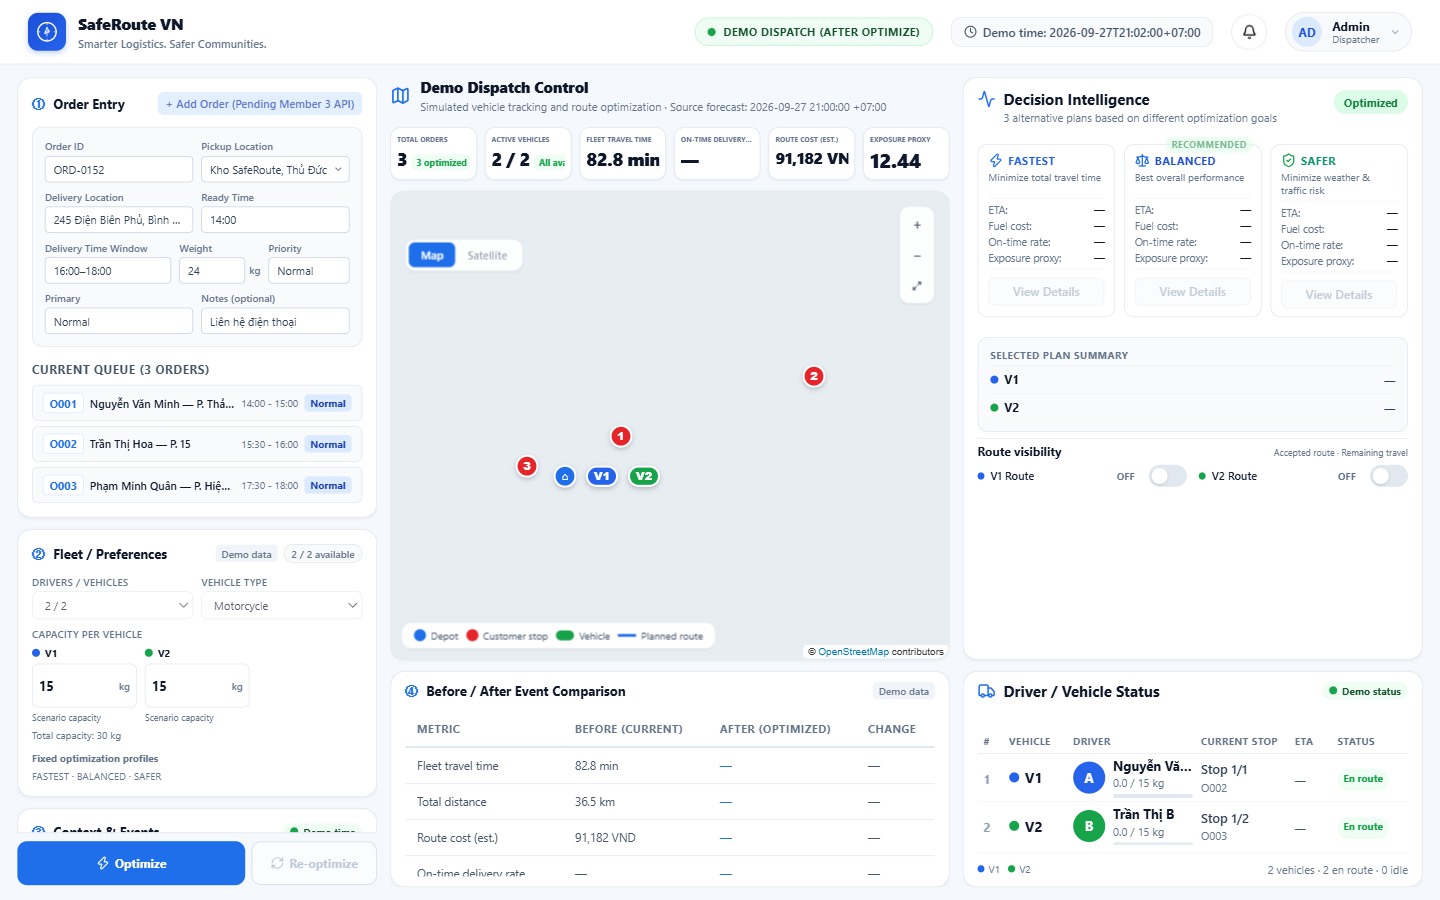
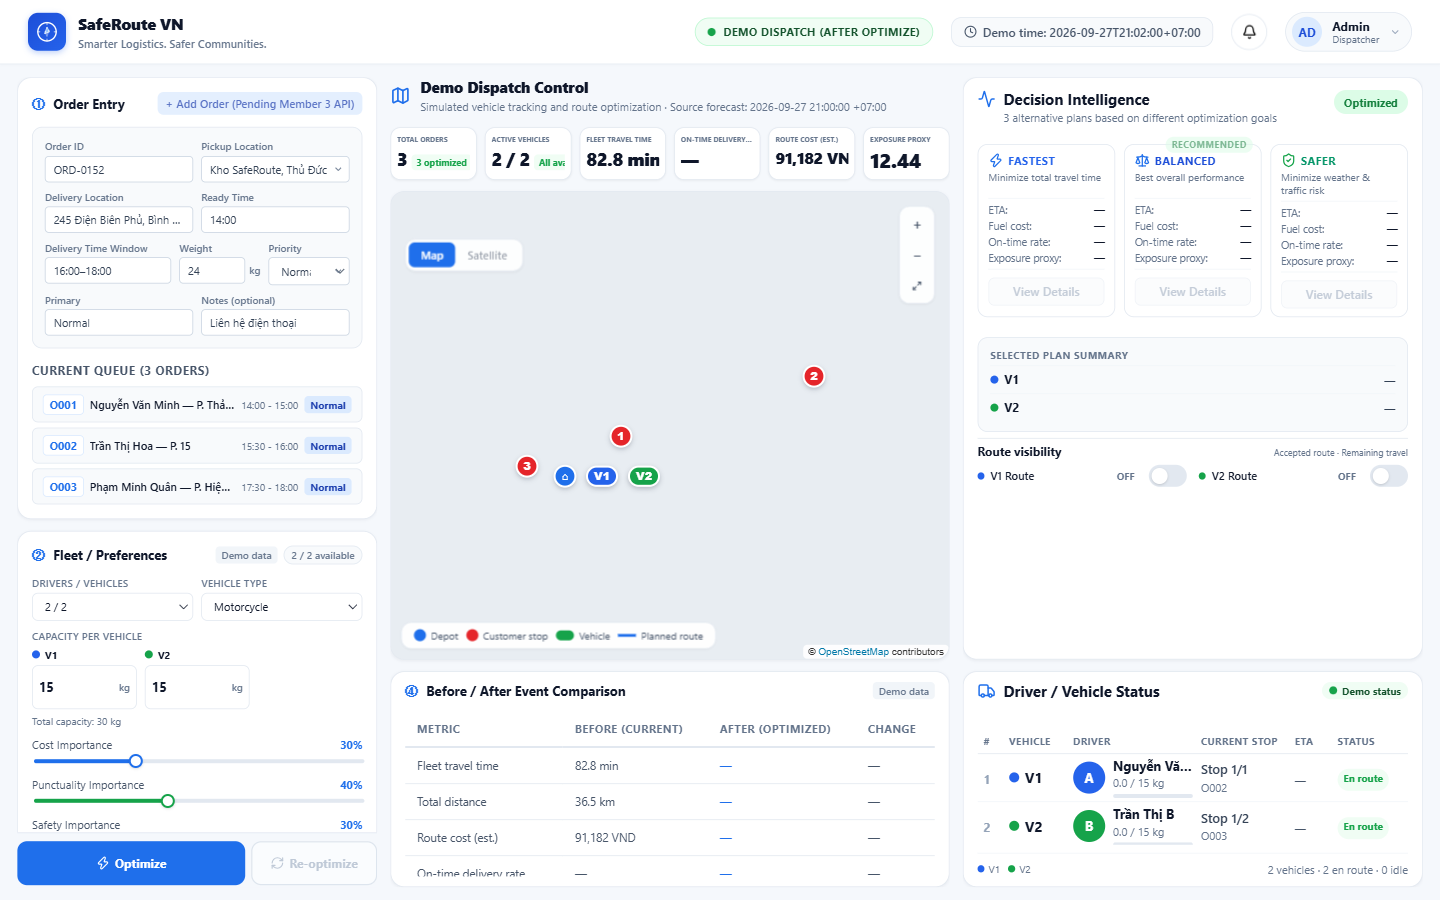
revert(frontend): restore Member 4 demo from 52d712b

diff --git a/frontend/src/admin/AdminPage.tsx b/frontend/src/admin/AdminPage.tsx
@@ -76,7 +76,31 @@ function ToggleSwitch({
 
 export function AdminPage() {
   const { api, snapshot, pending, error, invoke } = useDispatch();
+  const [costWeight, setCostWeight] = useState(30);
+  const [punctualityWeight, setPunctualityWeight] = useState(40);
+  const [safetyWeight, setSafetyWeight] = useState(30);
   const [routeView, setRouteView] = useState<{ sessionId: string | null; visibility: Record<string, boolean> }>({ sessionId: null, visibility: {} });
+
+  /* Per-vehicle capacity state */
+  const [capacities, setCapacities] = useState<Record<string, number>>({});
+  /* Draft (string) values for each input while typing */
+  const [capDrafts, setCapDrafts] = useState<Record<string, string>>({});
+  /* Set to true if draft is invalid (NaN / out of range) */
+  const [capInvalid, setCapInvalid] = useState<Record<string, boolean>>({});
+
+  function handleCapChange(vid: string, raw: string) {
+    setCapDrafts((prev) => ({ ...prev, [vid]: raw }));
+    const n = parseInt(raw, 10);
+    if (!raw || isNaN(n) || n < 1 || n > 200) {
+      setCapInvalid((prev) => ({ ...prev, [vid]: true }));
+    } else {
+      setCapInvalid((prev) => ({ ...prev, [vid]: false }));
+      setCapacities((prev) => ({ ...prev, [vid]: n }));
+    }
+  }
+
+  /* Priority selector for Order Entry form */
+  const [orderPriority, setOrderPriority] = useState<'Normal' | 'Urgent'>('Normal');
 
   if (!snapshot) return <main className="page-loading">Loading dispatch workspace…</main>;
 
@@ -99,7 +123,7 @@ export function AdminPage() {
     (v) => v.availability === "AVAILABLE"
   ).length;
   const totalVehiclesCount = snapshot.decisionState.vehicles.length;
-  const currentCapacities = snapshot.decisionState.vehicles.map((vehicle) => vehicle.capacityKg);
+  const currentCapacities = snapshot.decisionState.vehicles.map((vehicle) => capacities[vehicle.id] ?? vehicle.capacityKg);
   const totalCapacity = currentCapacities.reduce((sum, capacity) => sum + capacity, 0);
   const totalOrdersCount = snapshot.decisionState.orders.length;
   const optimizedOrdersCount = active ? totalOrdersCount - active.plan.unserved.length : 0;
@@ -242,7 +266,7 @@ export function AdminPage() {
               <button
                 className="add-order-btn"
                 disabled
-                title={L.addOrderTitle}
+                title="Pending Member 3 API"
                 style={{ fontSize: "11px", opacity: 0.75, cursor: "not-allowed", padding: "4px 8px" }}
               >
                 + Add Order (Pending Member 3 API)
@@ -250,7 +274,7 @@ export function AdminPage() {
             </div>
 
             {/* 4-row form matching mockup */}
-            <div className="order-entry-form" role="group" aria-label="Sample Order Entry" title="Sample form — pending backend integration">
+            <div className="order-entry-form">
               {/* Row 1: Order ID | Pickup Location */}
               <div className="form-row-2">
                 <label>
@@ -290,7 +314,7 @@ export function AdminPage() {
                   <input type="text" readOnly value="14:00" className="mock-input" />
                 </label>
               </div>
-              {/* Row 3: Delivery Time Window | Weight | Sample priority */}
+              {/* Row 3: Delivery Time Window | Weight | Priority (dropdown with chevron) */}
               <div className="form-row-3">
                 <label>
                   <span className="label-nowrap">{L.deliveryTimeWindowLabel}</span>
@@ -305,7 +329,18 @@ export function AdminPage() {
                 </label>
                 <label>
                   <span>{L.priorityLabel}</span>
-                  <input type="text" readOnly value="Normal" className="mock-input" />
+                  <div className="mock-select">
+                    <select
+                      className="mock-input"
+                      value={orderPriority}
+                      onChange={(e) => setOrderPriority(e.target.value as 'Normal' | 'Urgent')}
+                      style={{ cursor: 'pointer', paddingRight: '20px' }}
+                    >
+                      <option value="Normal">Normal</option>
+                      <option value="Urgent">Urgent</option>
+                    </select>
+                    <ChevronDown size={11} className="select-chevron" />
+                  </div>
                 </label>
               </div>
               {/* Row 4: Primary | Notes */}
@@ -334,7 +369,8 @@ export function AdminPage() {
             <div className="order-queue">
               {snapshot.decisionState.orders.map((order) => {
                 const info = getCustomerInfo(order.id);
-                const isUrgent = order.priority >= 3;
+                // If Priority dropdown is Urgent, mark newly added order (ORD-0152) as urgent-styled
+                const isUrgent = order.priority >= 3 || (orderPriority === 'Urgent' && order.id === 'ORD-0152');
                 const parts = info.address.split(",");
                 const area = parts[1]?.trim() || parts[0]?.trim() || "Thủ Đức";
                 return (
@@ -372,13 +408,13 @@ export function AdminPage() {
             <div className="fleet-dropdowns">
               <label className="fleet-field">
                 <span className="fleet-label">{L.driversVehicles}</span>
-                <select className="fleet-select" disabled>
+                <select className="fleet-select">
                   <option>{availableVehiclesCount} / {totalVehiclesCount}</option>
                 </select>
               </label>
               <label className="fleet-field">
                 <span className="fleet-label">{L.vehicleType}</span>
-                <select className="fleet-select" disabled>
+                <select className="fleet-select">
                   <option>{L.vehicleTypeValue}</option>
                 </select>
               </label>
@@ -390,17 +426,24 @@ export function AdminPage() {
               <div className="capacity-inputs-grid">
                 {snapshot.decisionState.vehicles.map((v) => {
                   const color = vehicleColor(v.id);
+                  const invalid = !!capInvalid[v.id];
                   return (
                     <div key={v.id} className="capacity-input-cell">
                       <div className="capacity-cell-label">
                         <span className="cap-dot" style={{ background: color }} />
                         <span className="cap-vid">{v.id}</span>
                       </div>
-                      <div className="capacity-input-wrap">
-                        <output aria-label={`Capacity ${v.id}`}>{v.capacityKg}</output>
+                      <div className={`capacity-input-wrap${invalid ? ' invalid' : ''}`}>
+                        <input
+                          type="number"
+                          min={1}
+                          max={200}
+                          value={capDrafts[v.id] ?? String(v.capacityKg)}
+                          aria-label={`Capacity ${v.id}`}
+                          onChange={(e) => handleCapChange(v.id, e.target.value)}
+                        />
                         <span className="capacity-kg-suffix">kg</span>
                       </div>
-                      <small className="capacity-source">Scenario capacity</small>
                     </div>
                   );
                 })}
@@ -421,10 +464,50 @@ export function AdminPage() {
               })()}
             </div>
 
-            <p className="fleet-profile-note">
-              <strong>{L.fixedProfiles}</strong>
-              <span>FASTEST · BALANCED · SAFER</span>
-            </p>
+            <div className="preference-sliders">
+              <label className="slider-group">
+                <div className="slider-header">
+                  <span>{L.costImportance}</span>
+                  <b>{costWeight}%</b>
+                </div>
+                <input
+                  aria-label="Cost weight"
+                  type="range" min="0" max="100"
+                  value={costWeight}
+                  className="slider-input slider-cost"
+                  style={{ '--pct': `${costWeight}%` } as React.CSSProperties}
+                  onChange={(e) => setCostWeight(Number(e.target.value))}
+                />
+              </label>
+              <label className="slider-group">
+                <div className="slider-header">
+                  <span>{L.punctualityImportance}</span>
+                  <b>{punctualityWeight}%</b>
+                </div>
+                <input
+                  aria-label="Punctuality weight"
+                  type="range" min="0" max="100"
+                  value={punctualityWeight}
+                  className="slider-input slider-success"
+                  style={{ '--pct': `${punctualityWeight}%` } as React.CSSProperties}
+                  onChange={(e) => setPunctualityWeight(Number(e.target.value))}
+                />
+              </label>
+              <label className="slider-group">
+                <div className="slider-header">
+                  <span>{L.safetyImportance}</span>
+                  <b>{safetyWeight}%</b>
+                </div>
+                <input
+                  aria-label="Safety weight"
+                  type="range" min="0" max="100"
+                  value={safetyWeight}
+                  className="slider-input slider-success"
+                  style={{ '--pct': `${safetyWeight}%` } as React.CSSProperties}
+                  onChange={(e) => setSafetyWeight(Number(e.target.value))}
+                />
+              </label>
+            </div>
           </section>
 
             {/* ③ Context & Events */}
@@ -933,7 +1016,7 @@ export function AdminPage() {
                 const loadKg = snapshot.decisionState.orders
                   .filter((o) => vPlan?.orderedStops.some((s) => s.orderIds?.includes(o.id)))
                   .reduce((sum, o) => sum + o.demandKg, 0);
-                const cap = v.capacityKg;
+                const cap = capacities[v.id] ?? v.capacityKg;
                 return (
                   <div key={v.id} className="plan-summary-row">
                     <span className="plan-summary-dot" style={{ background: vehicleColor(v.id) }} />
@@ -1016,7 +1099,7 @@ export function AdminPage() {
                     : "Unavailable";
                   const stopOrder = currentStop?.orderIds?.[0] ?? null;
                   const color = vehicleColor(vehicle.id);
-                  const cap = vehicle.capacityKg;
+                  const cap = capacities[vehicle.id] ?? vehicle.capacityKg;
                   const load = vehicle.currentLoadKg;
                   const loadPct = Math.min(100, (load / cap) * 100);
                   const overload = load > cap;

diff --git a/frontend/src/styles/global.css b/frontend/src/styles/global.css
@@ -795,9 +795,11 @@ button:disabled {
   min-width: 0;
 }
 
-.capacity-input-wrap output {
-  display: flex;
-  align-items: center;
+.capacity-input-wrap.invalid {
+  border-color: var(--color-danger);
+}
+
+.capacity-input-wrap input {
   flex: 1;
   min-width: 0;
   height: 100%;
@@ -809,12 +811,6 @@ button:disabled {
   color: var(--color-text-main);
   font-variant-numeric: tabular-nums;
   background: transparent;
-}
-
-.capacity-source {
-  margin-top: 4px;
-  font-size: 9px;
-  color: var(--color-text-muted);
 }
 
 .capacity-kg-suffix {
@@ -871,13 +867,88 @@ button:disabled {
   cursor: pointer;
 }
 
-.fleet-profile-note {
+.preference-sliders {
   display: flex;
   flex-direction: column;
-  gap: 4px;
-  margin: 8px 0 0;
-  font-size: 10px;
-  color: var(--color-text-muted);
+  gap: 12px;
+}
+
+.slider-group {
+  display: flex;
+  flex-direction: column;
+  gap: 5px;
+}
+
+.slider-header {
+  display: flex;
+  justify-content: space-between;
+  font-size: 11px;
+  color: var(--color-text-secondary);
+}
+
+.slider-header b {
+  color: var(--color-primary);
+}
+
+/* Styled range sliders with fill colour via CSS custom property */
+input[type="range"].slider-input {
+  width: 100%;
+  height: 4px;
+  border-radius: 999px;
+  cursor: pointer;
+  appearance: none;
+  -webkit-appearance: none;
+  background: linear-gradient(
+    to right,
+    var(--fill) 0,
+    var(--fill) var(--pct, 30%),
+    #E2E8F0 var(--pct, 30%),
+    #E2E8F0 100%
+  );
+  border: none;
+  outline: none;
+}
+
+.slider-cost   { --fill: #1F6FEB; }
+.slider-success { --fill: #16A34A; }
+
+/* Webkit thumb */
+input[type="range"].slider-input::-webkit-slider-thumb {
+  width: 14px;
+  height: 14px;
+  border-radius: 50%;
+  background: white;
+  border: 2px solid var(--fill, #1F6FEB);
+  box-shadow: 0 1px 3px rgba(0,0,0,0.18);
+  cursor: pointer;
+  appearance: none;
+  -webkit-appearance: none;
+  margin-top: -5px;
+}
+
+/* Webkit track */
+input[type="range"].slider-input::-webkit-slider-runnable-track {
+  height: 4px;
+  border-radius: 999px;
+  background: transparent;
+}
+
+/* Firefox thumb */
+input[type="range"].slider-input::-moz-range-thumb {
+  width: 14px;
+  height: 14px;
+  border-radius: 50%;
+  background: white;
+  border: 2px solid var(--fill, #1F6FEB);
+  box-shadow: 0 1px 3px rgba(0,0,0,0.18);
+  cursor: pointer;
+}
+
+/* Firefox track */
+input[type="range"].slider-input::-moz-range-track {
+  height: 4px;
+  border-radius: 999px;
+  background: transparent;
 }
 
 /* Card 3: Context & Events — epoch row */

diff --git a/frontend/src/app/experiences.test.tsx b/frontend/src/app/experiences.test.tsx
@@ -244,10 +244,9 @@ describe("Admin and Driver experiences", () => {
     expect(await screen.findByText(/total capacity:\s*30 kg/i)).toBeInTheDocument();
   });
 
-  it("exposes the read-only sample priority to assistive technology", async () => {
+  it("exposes the visible order priority control to assistive technology", async () => {
     renderExperience("/admin");
-    expect(await screen.findByRole("textbox", { name: "Priority" })).toHaveAttribute("readonly");
-    expect(screen.queryByRole("combobox", { name: "Priority" })).not.toBeInTheDocument();
+    expect(await screen.findByRole("combobox", { name: "Priority" })).toBeInTheDocument();
   });
 
   it("labels simulated dispatch honestly and shows no invented notification count", async () => {

diff --git a/frontend/src/admin/admin.labels.ts b/frontend/src/admin/admin.labels.ts
@@ -36,7 +36,9 @@ export const LABELS = {
   vehicleType: "Vehicle Type",
   capacity: "Capacity",
   vehicleTypeValue: "Motorcycle",
-  fixedProfiles: "Fixed optimization profiles",
+  costImportance: "Cost Importance",
+  punctualityImportance: "Punctuality Importance",
+  safetyImportance: "Safety Importance",
   availableChip: (avail: number, total: number) => `${avail} / ${total} available`,
 
   /* Context & Events */

diff --git a/frontend/docs/tasks.md b/frontend/docs/tasks.md
@@ -77,10 +77,6 @@
 - [x] **P1.5-18 — Local event road compute + capacity partition:** Bỏ block Plan Accepted/dispatched/provenance bên phải, giữ hành động Accept/design. Local wrapper tạo bounded subsets WAITING (có nhóm không trùng đơn), M2 realizer/CP-SAT và raw validator quyết định assignment/actions/geometry. Capacity giữ 15 kg; DELIVERED frozen, ONBOARD owner giữ nguyên, pickup-first dùng residual; delivery rồi reload được dùng capacity đã giải phóng. Năm exact worlds ×3 profiles, static forecast time ở map subtitle; không tự dispatch, không transplant native replay. [Plan](local-event-road-plan.md).
 - [ ] **BLOCKED P1.5-19 — S0 rain road compute:** M2 rain model pin root S4; cần extension hỗ trợ root S0 ba đơn. Hiện S0 rain fallback schematic có nhãn; không dùng geometry/world tám đơn S4 thay thế.
 - [x] **P1.5-20 — Urgent ON/OFF + Driver route colors:** Fresh/Reset S0 có ba đơn, Urgent OFF; refresh giữ phiên đã lưu. ON thêm đúng fixture urgent, OFF chỉ hủy đơn WAITING; khóa sau pickup/delivery. Giữ accepted history/execution/custody, advance clock/version, invalidate proposals và stale assessment; giữ round event ID khi OFF để không trộn event. Driver dùng chung palette/leg description với Admin, accepted-only, dim completed 0.35, giữ màu remaining, ẩn return forecast và thêm legend gọn; geometry/actions/KPI không đổi.
-- [x] **P1.5-21 — Honest Admin controls:** Capacity/total/warnings/load bars lấy từ DecisionState, không local edit; bỏ ba weight sliders, giữ fixed M2 profiles. Sample Order Entry chỉ đọc, Add Order disabled; Current Queue urgency lấy từ order.priority. Regression tests kiểm unequal capacities, warnings, không slider/custom Optimize payload và thử chỉnh priority không đổi world.
-- [ ] **P1.5-22 — Offline forecast time binding:** Đang xác nhận mâu thuẫn artifact: INITIAL sourceTime 21:00, Optimize đầu advance clock đến 21:01; MANUAL_EVENT sourceTime 21:16 khớp epoch sau Optimize. Chờ user chọn strict match (INITIAL fallback) hoặc ngoại lệ INITIAL duy nhất; không retime pack/geometry để che lệch.
-
-**P1.5-21 evidence (2026-10-06):** TDD controls đỏ → xanh. Full suite **139/139 pass**, typecheck và build exit 0; `lint` hiện chỉ chạy TypeScript, không là ESLint. [Viewport checks](evidence/visual-results.json) pass Admin 1280/1440, Driver 360/390/430, tất cả `overflowPx=0`; browser assert capacity không editor, không weight slider, toàn bộ sample form read-only, Add Order disabled. Forced tile failure giữ 3 route groups/6 markers. Hash hai M2 road assets giữ nguyên so với bản publish. Đây là evidence cho Fix 1–3; **Fix 4/P1.5-22 chưa hoàn tất**.
 
 **P1.5-20 evidence (2026-10-06):** TDD Driver palette/full polyline đỏ → xanh; engine cancellation/physical truth/round lock và API/UI toggle đỏ → xanh. Full frontend **134/134 tests pass**, typecheck/lint/build exit 0. [Browser ON/OFF + Driver](evidence/urgent-driver-results.json) xác nhận 3→4→3→4→3 orders, history/active plan không tự thay, cross-tab stale không tạo route-update banner, hydrate OFF; V2 green/dark green giữ màu sau delivery, completed opacity 0.35. Driver 360/390/430 có `overflowPx=0`; [ảnh 390 px](evidence/driver-v2-legs-390.png). [Initial road regression](evidence/offline-route-results.json) pass S0/S2/S3/S4, không schematic; S0 rain fallback còn đúng nhãn. Không sửa released M2 runtime hoặc regenerate geometry. Bundle warning và WebView thật vẫn mở.
 

diff --git a/frontend/README.md b/frontend/README.md
@@ -24,20 +24,6 @@ open one route in each tab of the same browser profile.
 
 ## Verify
 
-Fleet capacity is scenario/runtime-owned and **read-only** in Phase 1.5. The
-display, total and warnings use `DecisionState.vehicles[].capacityKg` only.
-Optimization uses Member 2's fixed **FASTEST / BALANCED / SAFER** profiles;
-frontend custom weights are not supported. Order Entry is a read-only sample
-until Member 3 order creation is handed off. Add Order stays disabled; Current
-Queue and urgency always come from actual DecisionState orders.
-
-Offline Member 2 assets are static forecasts at their recorded `sourceTime`,
-not live solves. Time-binding work is tracked in P1.5-22: the current INITIAL
-assets record 21:00, whereas the first Optimize action advances Demo time to
-21:01. Resolving the strict-match versus INITIAL-only exception is pending.
-Do not treat advancing Demo time and reusing an asset as a fresh computation.
-Live optimization at arbitrary times remains Phase 2/backend work.
-
 ```powershell
 npm.cmd run test:run
 npm.cmd run typecheck
